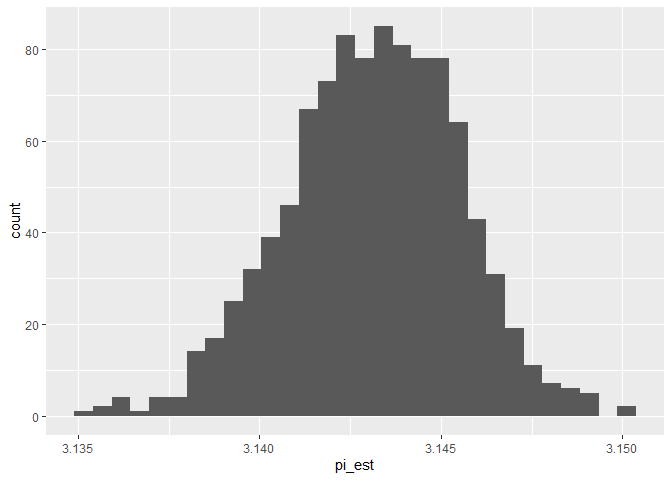
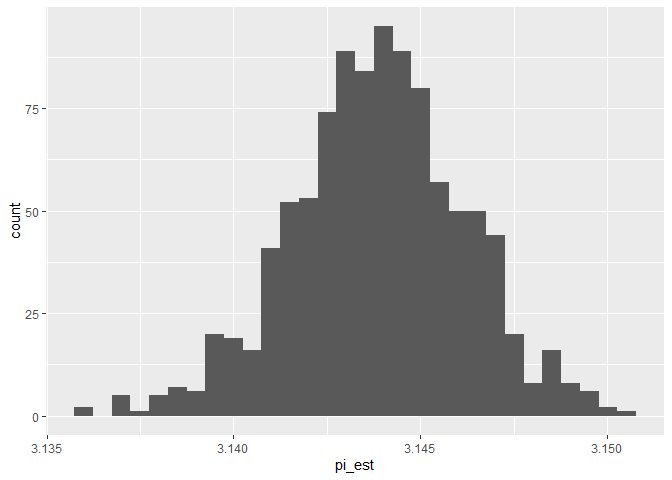
Resubmitting c07

diff --git a/challenges/c07-monte-carlo-assignment.md b/challenges/c07-monte-carlo-assignment.md
@@ -251,7 +251,7 @@ Answer the questions below.
 stat <- function(x, y) {
   # TODO: Finish implementing this function
   inside_circle <- (x^2 + y^2) <= 1
-  4* mean(inside_circle)
+  4* inside_circle
 }
 ```
 
@@ -299,11 +299,12 @@ print("Your assertions passed, but make sure they're checking the right thing!")
 - You chose a correct value of `stat(x, y)` when `x, y` is *outside* the
   circle. Why did you choose this value?
   - We need to check whether the elements outside the circle are
-    properly “filtered” to 0
+    properly “filtered” to 0.
 - You chose a correct value of `stat(x, y)` when `x, y` is *inside* the
   circle. Why did you choose this value?
-  - We need to check whether the elements inside the circle are properly
-    counted.
+  - The indicator function takes $$I=1$$ when the point is inside the
+    circle. From $$\pi = \mathbb{E}[4 \times I_{X \in S_c}]$$, we can
+    see that $$4 \times I_{X \in S_c}$$ must be 4.
 
 ### **q3** Estimate $\pi$
 
@@ -313,8 +314,8 @@ Using your data in `df_q1`, estimate $\pi$.
 ## TASK: Estimate pi using your data from q1
 df_q3 <- 
   df_q1 %>% 
-  summarize(pi_est = stat(x,y))
-  
+  summarize(pi_est = mean(stat(x,y)))
+
 df_q3
 ```
 
@@ -450,14 +451,14 @@ sd_pi <- sd(df_q4$pi_est)
 
 clt_ci <- c(
   lower = mean_pi - 1.96 * sd_pi,
-  upper = mean_pi + 1.96*sd_pi
+  upper = mean_pi + 1.96 * sd_pi
 )
 
 clt_ci
 ```
 
     ##    lower    upper 
-    ## 3.138498 3.147731
+    ## 3.139325 3.148392
 
 **Observations**:
 
